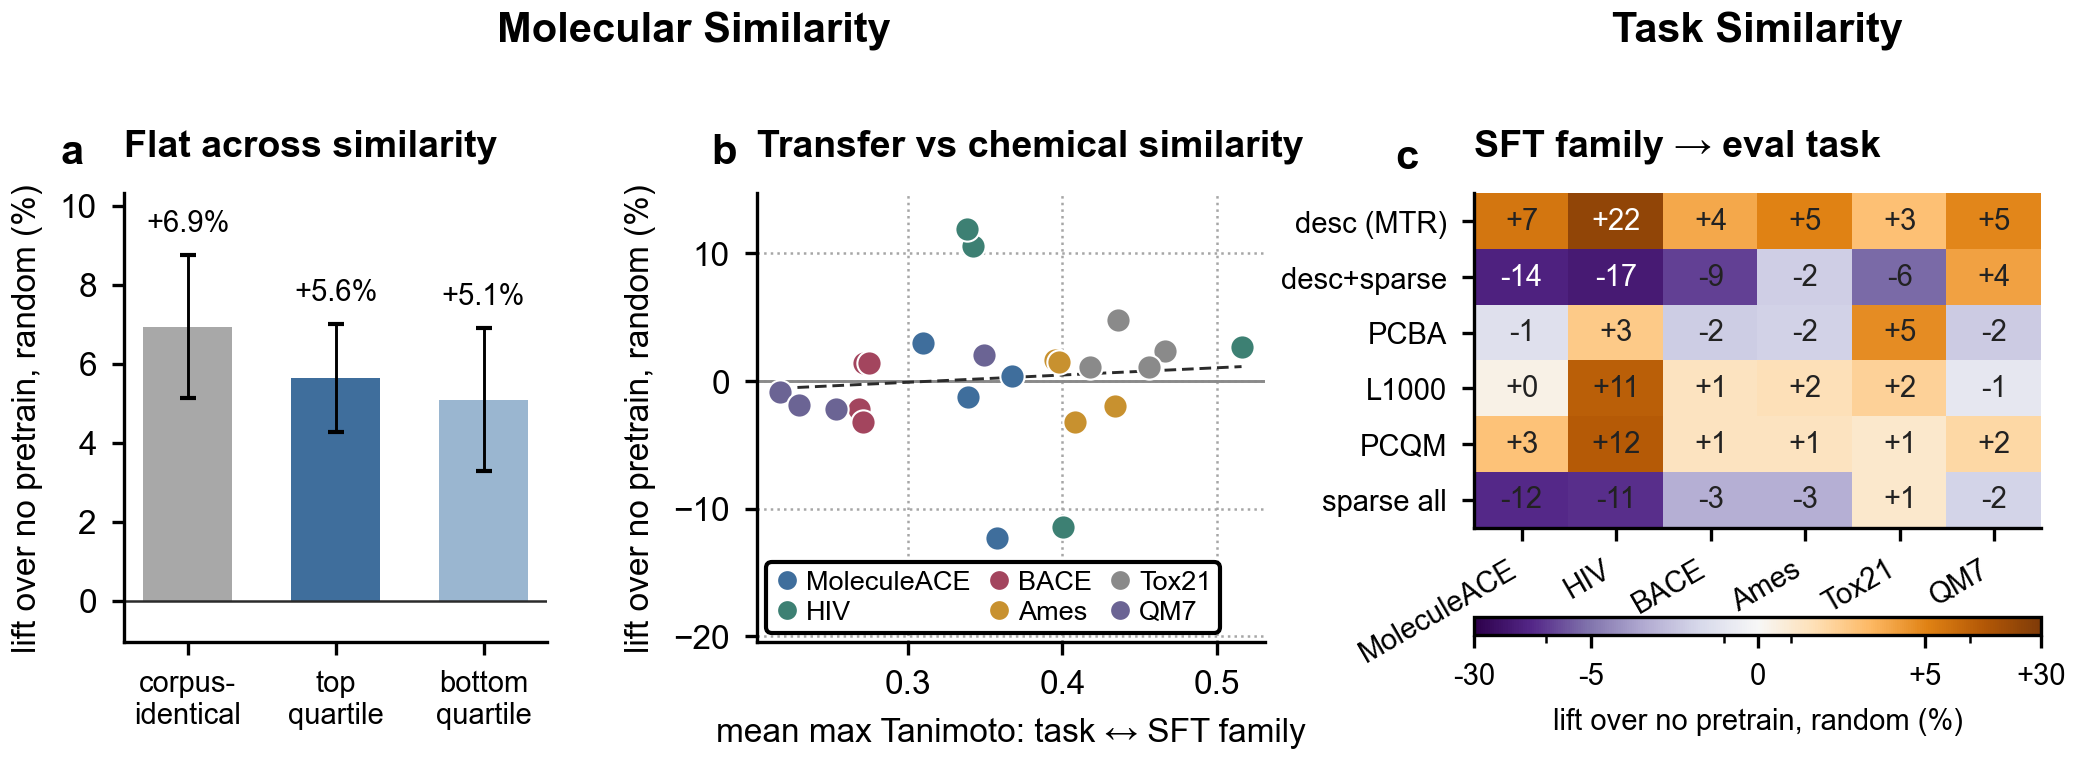
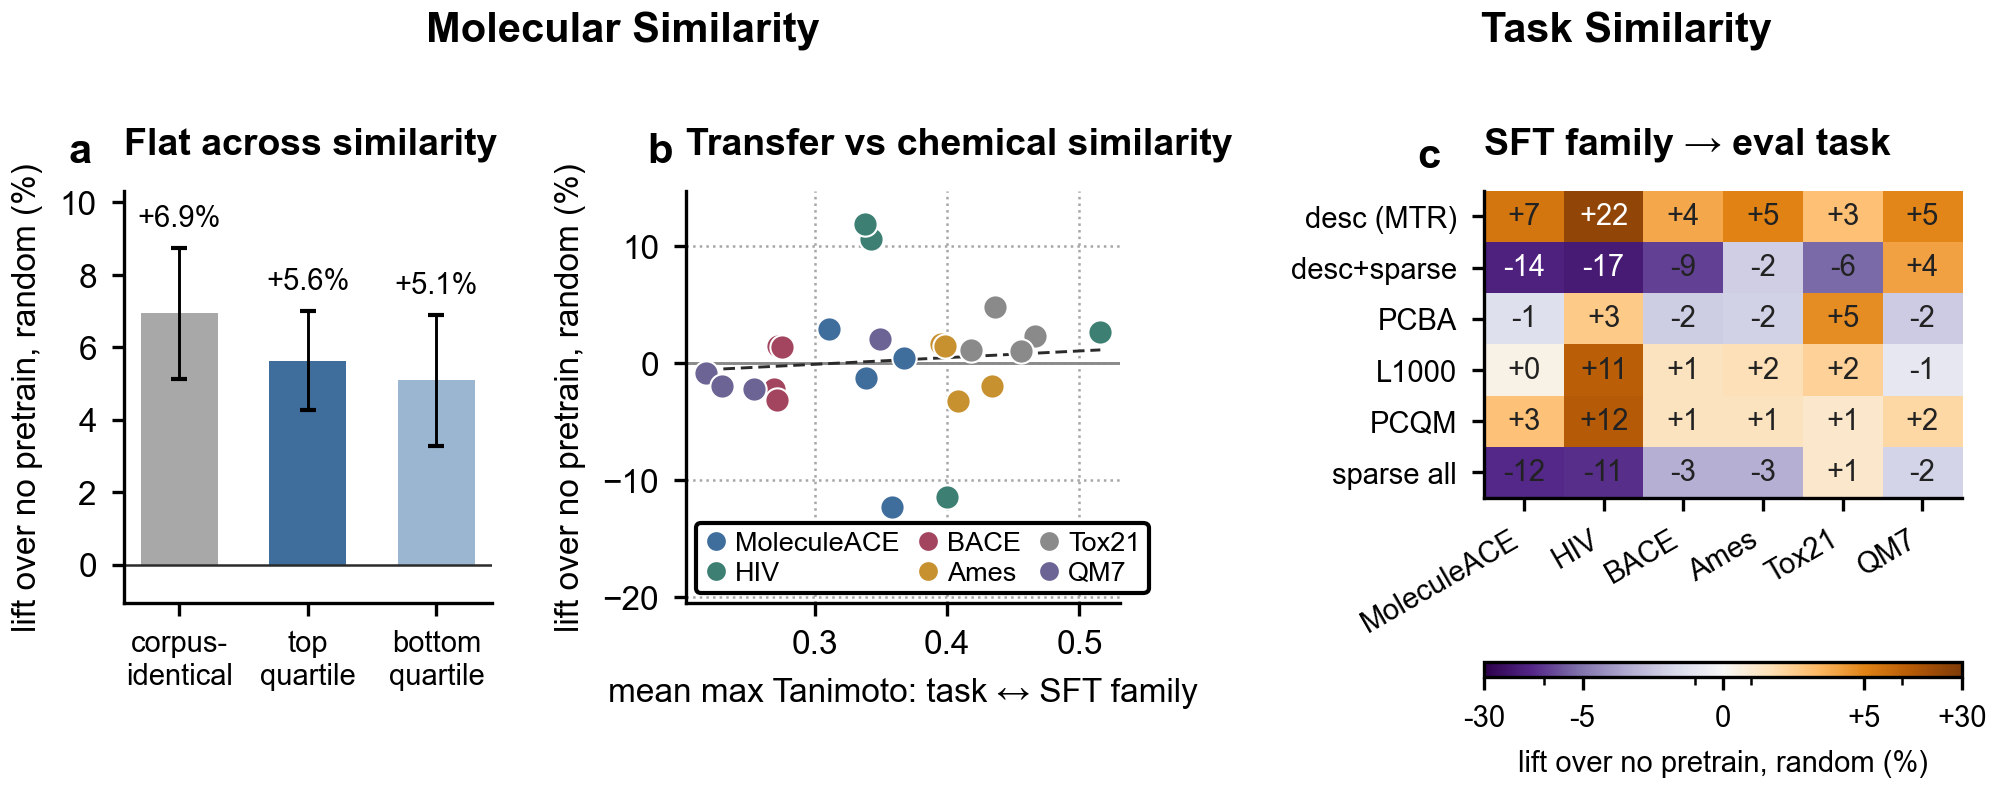
fig_C+D: A4 text-block width, and a layout balanced from what is drawn
Leif 2026-08-23: "have everything centred, the c is a bit off. Can you make
its width so it neatly fits an A4 layout?"

WIDTH is now STYLE["col2"] exactly -- the A4 text block -- so the figure
arrives at 1:1 under \includegraphics[width=\textwidth] and prints at the
font size every script authors. At 7.0in it was 5% over and LaTeX silently
scaled it down.

"c IS A BIT OFF" WAS THREE SEPARATE THINGS, all measured rather than
eyeballed:

  1. Panels b and c OVERLAPPED by 0.027 of the figure width -- b's x-label
     ran past its axes into c's row labels -- and the outer margins were
     0.022 and 0.012. A uniform wspace cannot balance three panels whose
     decorations differ this much, so the layout is now two-pass: draw,
     measure each panel's tight bbox, then reposition for equal margins and
     equal gaps. Derived from what was rendered, so it stays balanced when a
     label changes length.
  2. The group titles were centred on the AXES box. Panel c is a heatmap
     whose row labels sit left of the axes and whose colourbar sits below,
     so its axes centre is well right of where the eye puts the panel.
     Centred on the drawn extent now.
  3. Repositioning then desynced the colourbar: colorbar(im, ax=axM) steals
     space from the matrix and places its own axes at CREATION time, with no
     link afterwards, so set_position on the parent left the bar behind.
     Attached axes now move with their panel -- and the bar drops clear of
[…]

diff --git a/figures/fig_C_plus_D.py b/figures/fig_C_plus_D.py
@@ -69,9 +69,15 @@ def main():
     # continuous version of the same lift; d (the D bar summary) is the row-means of the matrix
     # that is still drawn; f (the dense-vs-sparse slope) is one cut of that same matrix. Every
     # dropped panel remains in its standalone figure, so nothing is lost from the record.
-    fig = plt.figure(figsize=(7.0, 2.85))
-    gs = fig.add_gridspec(1, 3, width_ratios=[1.00, 1.20, 1.34], wspace=0.42,
-                          left=0.075, right=0.988, top=0.760, bottom=0.235)
+    # A4 TEXT BLOCK EXACTLY (Leif 2026-08-23). STYLE["col2"] is that width, so the figure arrives
+    # at 1:1 under \includegraphics[width=\textwidth] and its fonts print at the size every other
+    # script authored them at. At 7.0in it was 5% over and LaTeX silently scaled it down.
+    fig = plt.figure(figsize=(STYLE["col2"], 3.05))
+    # The gridspec span is deliberately narrower than the canvas: the two-pass balancer below
+    # keeps axes WIDTHS and only repositions them, so the room for the gaps has to exist before
+    # it runs. At the full span the panels packed to a 0.011 gap and read as one block.
+    gs = fig.add_gridspec(1, 3, width_ratios=[1.00, 1.18, 1.30], wspace=0.46,
+                          left=0.078, right=0.912, top=0.775, bottom=0.325)
     ax_a = fig.add_subplot(gs[0, 0])
     ax_b = fig.add_subplot(gs[0, 1])
     ax_c = fig.add_subplot(gs[0, 2])
@@ -88,9 +94,84 @@ def main():
     fig_D.draw(unused[1], ax_c, unused[2], d3, tags=("", "c", ""), compact=True)
     plt.close(scratch)
 
+    # TWO-PASS LAYOUT, because these three panels carry very different decorations and a uniform
+    # wspace cannot balance them. Measured on the one-pass version: panels b and c OVERLAPPED by
+    # 0.027 of the figure width -- b's x-label ran past its axes into c's row labels -- while the
+    # left and right margins were 0.022 and 0.012. That is what "c is a bit off" was.
+    #
+    # So: draw once, measure each panel's DRAWN extent (tight bbox, decorations included), then
+    # reposition the axes so the two outer margins are equal and the two gaps are equal. Deriving
+    # the geometry from what was actually rendered means it stays balanced when a label changes
+    # length, which a hand-tuned wspace does not.
+    def _bbs():
+        fig.canvas.draw()
+        r = fig.canvas.get_renderer()
+        return [ax.get_tightbbox(r).transformed(fig.transFigure.inverted())
+                for ax in (ax_a, ax_b, ax_c)]
+
+    MARGIN = 0.014
+    panels = (ax_a, ax_b, ax_c)
+    bbs = _bbs()
+    drawn_total = sum(b.x1 - b.x0 for b in bbs)
+    gap = (1.0 - 2 * MARGIN - drawn_total) / (len(bbs) - 1)
+
+    # ATTACHED AXES MOVE WITH THEIR PANEL. fig_D builds the matrix colourbar with
+    # colorbar(im, ax=axM), which steals space from axM and places its own axes at CREATION time --
+    # matplotlib keeps no link afterwards, so set_position on the parent leaves the bar behind.
+    # First pass without this put the colourbar under the wrong x and the matrix's rotated column
+    # labels landed on top of it. Anything that is not one of the three panels is claimed by
+    # whichever panel currently spans its centre, and is shifted by the same dx.
+    others = [ax for ax in fig.axes if ax not in panels]
+    owner = {}
+    for ax in others:
+        cx = (ax.get_position().x0 + ax.get_position().x1) / 2.0
+        for i, pax in enumerate(panels):
+            pp = pax.get_position()
+            if pp.x0 - 0.05 <= cx <= pp.x1 + 0.05:
+                owner.setdefault(ax, i)
+                break
+
+    cursor, dxs = MARGIN, []
+    for ax, bb in zip(panels, bbs):
+        pos = ax.get_position()
+        pad_left = pos.x0 - bb.x0            # y-label, row labels: whatever sits left of the axes
+        new_x0 = cursor + pad_left
+        dxs.append(new_x0 - pos.x0)
+        ax.set_position([new_x0, pos.y0, pos.width, pos.height])
+        cursor += (bb.x1 - bb.x0) + gap
+    for ax, i in owner.items():
+        pos = ax.get_position()
+        ax.set_position([pos.x0 + dxs[i], pos.y0, pos.width, pos.height])
+
+    # AND DROP IT CLEAR OF THE ROTATED COLUMN LABELS, by the measured overlap rather than by a
+    # guessed pad. fig_D's colorbar pad is tuned for its own standalone layout, where the matrix is
+    # taller; in this row the rotated task names reach 0.059 of the figure BELOW the bar's top and
+    # printed straight through it. Measuring means this stays correct if the label set changes.
+    fig.canvas.draw()
+    r = fig.canvas.get_renderer()
+    for ax, i in owner.items():
+        if i != 2:
+            continue
+        lab_bottom = min((t.get_window_extent(r).transformed(fig.transFigure.inverted()).y0
+                          for t in ax_c.get_xticklabels() if t.get_text()), default=None)
+        if lab_bottom is None:
+            continue
+        pos = ax.get_position()
+        overlap = pos.y1 - lab_bottom
+        if overlap > 0:
+            drop = overlap + 0.030
+            ax.set_position([pos.x0, pos.y0 - drop, pos.width, pos.height])
+            print(f"  fig_C+D: colourbar dropped {drop:.3f} clear of the rotated column labels")
+    print(f"  fig_C+D: balanced to margin {MARGIN:.3f}, equal gaps {gap:.3f}; "
+          f"{len(owner)} attached axes moved with their panel")
+
     def _span(axes):
-        xs = [ax.get_position().x0 for ax in axes] + [ax.get_position().x1 for ax in axes]
+        xs = []
+        for ax in axes:
+            bb = ax.get_tightbbox(fig.canvas.get_renderer()).transformed(fig.transFigure.inverted())
+            xs += [bb.x0, bb.x1]
         return (min(xs) + max(xs)) / 2.0
+    fig.canvas.draw()
 
     fig.text(_span([ax_a, ax_b]), 0.950, "Molecular Similarity", ha="center", va="center",
              fontsize=FS["panel_tag"], fontweight="bold")
